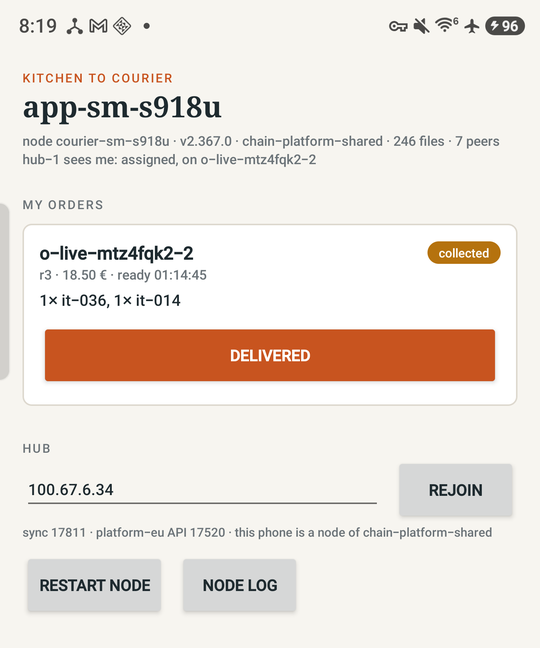
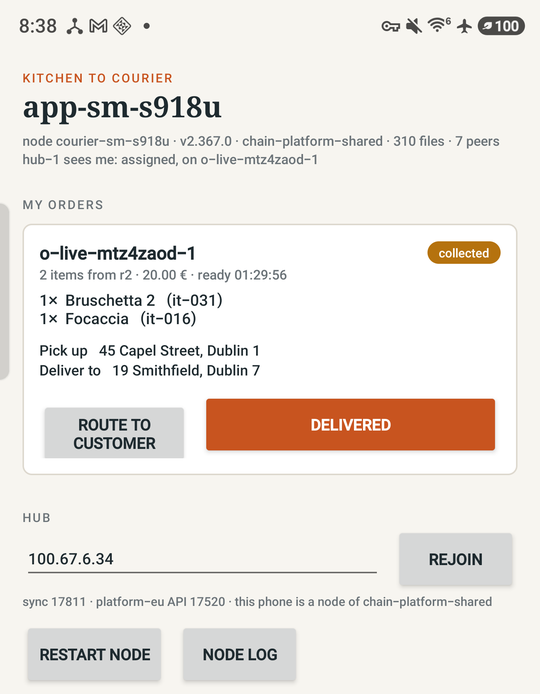
The card names the lines and carries both addresses, with a route
Items on the order are ids and prices; the names come from menu_published,
the chain's signed menu in the shared library, which the phone now
replicates on join and reads locally (through hub-1 until the members have
landed). Identical lines fold into one with the quantity summed, and a
count and total lead the card. The order's pickup and delivery addresses
(MVP PR #2) are shown, and Route hands the maps app a bicycle directions
link: courier to pickup until collected, pickup to customer after.

Claude-Session: https://claude.ai/code/session_01JTEEzAK5s1sBBuDzpcijis

diff --git a/app/src/main/java/ie/unidatum/courier/OrdersAdapter.kt b/app/src/main/java/ie/unidatum/courier/OrdersAdapter.kt
@@ -1,5 +1,7 @@
 package ie.unidatum.courier
 
+import android.content.Intent
+import android.net.Uri
 import android.view.LayoutInflater
 import android.view.View
 import android.view.ViewGroup
@@ -8,20 +10,60 @@ import android.widget.TextView
 import androidx.recyclerview.widget.RecyclerView
 import org.json.JSONObject
 
-class OrdersAdapter(val onCollected: (String) -> Unit, val onDelivered: (String) -> Unit) : RecyclerView.Adapter<OrdersAdapter.VH>() {
+class OrdersAdapter(val onCollected: (String) -> Unit, val onDelivered: (String) -> Unit, val myLocation: () -> JSONObject?) : RecyclerView.Adapter<OrdersAdapter.VH>() {
     private var items: List<JSONObject> = emptyList()
-    fun submit(o: List<JSONObject>) { items = o.sortedBy { it.optString("ready_at") }; notifyDataSetChanged() }
+    private var menu: Map<String, MenuItem> = emptyMap()
+    fun submit(o: List<JSONObject>, m: Map<String, MenuItem>) { items = o.sortedBy { it.optString("ready_at") }; menu = m; notifyDataSetChanged() }
+
+    /** The order's lines folded by item (the same item twice is one line, qty 2), named from the published menu when the phone holds it. */
+    data class Line(val itemId: String, val name: String, val qty: Int, val cents: Long)
+    fun lines(o: JSONObject): List<Line> {
+        val arr = o.optJSONArray("items") ?: return emptyList()
+        val rid = o.optString("restaurant_id")
+        val byItem = LinkedHashMap<String, Line>()
+        for (k in 0 until arr.length()) {
+            val it = arr.optJSONObject(k) ?: continue
+            val id = it.optString("item_id"); val qty = it.optInt("qty", 1)
+            val name = menu["$rid:$id"]?.name ?: it.optString("name", id)
+            val prev = byItem[id]
+            byItem[id] = Line(id, name, (prev?.qty ?: 0) + qty, (prev?.cents ?: 0) + qty * it.optLong("price_cents"))
+        }
+        return byItem.values.toList()
+    }
     class VH(v: View) : RecyclerView.ViewHolder(v)
+
+    /** A universal maps-directions link: any maps app takes it, the browser otherwise. Bicycle mode, a courier's. */
+    private fun directionsUrl(from: JSONObject?, to: JSONObject): String {
+        fun pt(p: JSONObject): String? = p.optJSONObject("location")?.optJSONArray("coordinates")?.let { "${it.optDouble(1)},${it.optDouble(0)}" }
+        val dest = pt(to) ?: Uri.encode(to.optString("address"))
+        val origin = from?.let { pt(it) ?: Uri.encode(it.optString("address")) }
+        return "https://www.google.com/maps/dir/?api=1&destination=$dest&travelmode=bicycling" + (if (origin != null) "&origin=$origin" else "")
+    }
     override fun onCreateViewHolder(p: ViewGroup, t: Int) = VH(LayoutInflater.from(p.context).inflate(R.layout.item_order, p, false))
     override fun getItemCount() = items.size
     override fun onBindViewHolder(h: VH, i: Int) {
         val o = items[i]; val id = o.optString("_id"); val status = o.optString("status")
-        val items = o.optJSONArray("items")
-        val lines = if (items == null) "" else (0 until items.length()).joinToString(", ") { k ->
-            val it = items.optJSONObject(k); if (it == null) items.optString(k) else "${it.optInt("qty", 1)}× ${it.optString("item_id", it.optString("name"))}" }
+        val ls = lines(o); val n = ls.sumOf { it.qty }
         h.itemView.findViewById<TextView>(R.id.orderId).text = id
-        h.itemView.findViewById<TextView>(R.id.orderMeta).text = "${o.optString("restaurant_id")} · ${"%.2f".format(o.optLong("total_cents") / 100.0)} € · ready ${o.optString("ready_at").takeLast(13).dropLast(5)}"
-        h.itemView.findViewById<TextView>(R.id.orderItems).text = lines
+        h.itemView.findViewById<TextView>(R.id.orderMeta).text =
+            "$n item${if (n == 1) "" else "s"} from ${o.optString("restaurant_id")} · ${"%.2f".format(o.optLong("total_cents") / 100.0)} € · ready ${o.optString("ready_at").takeLast(13).dropLast(5)}"
+        h.itemView.findViewById<TextView>(R.id.orderItems).text = ls.joinToString("\n") { "${it.qty}×  ${it.name}" + (if (it.name == it.itemId) "" else "   (${it.itemId})") }
+        // Where to: the pickup until it is collected, the delivery after. Both come on the order document
+        // (the platform writes the restaurant's address, the customer the delivery one).
+        val pickup = o.optJSONObject("pickup"); val delivery = o.optJSONObject("delivery")
+        h.itemView.findViewById<TextView>(R.id.pickup).text = "Pick up   " + (pickup?.optString("address")?.takeIf { it.isNotEmpty() } ?: o.optString("restaurant_id"))
+        h.itemView.findViewById<TextView>(R.id.deliverTo).text = "Deliver to   " + (delivery?.optString("address")?.takeIf { it.isNotEmpty() } ?: "no address on the order")
+        val route = h.itemView.findViewById<Button>(R.id.route)
+        val to = if (status == "ready") pickup else delivery
+        // To the pickup from where the courier is (the position the app registered; a real app would use GPS), then to the customer from the pickup.
+        val from = if (status == "ready") myLocation() else pickup
+        route.text = if (status == "ready") "Route to pickup" else "Route to customer"
+        route.isEnabled = to != null
+        route.setOnClickListener {
+            val ctx = h.itemView.context
+            val i = Intent(Intent.ACTION_VIEW, Uri.parse(directionsUrl(from, to!!)))
+            try { ctx.startActivity(i) } catch (e: Exception) { android.widget.Toast.makeText(ctx, "no maps app: ${e.message}", android.widget.Toast.LENGTH_SHORT).show() }
+        }
         val pill = h.itemView.findViewById<TextView>(R.id.status); pill.text = status
         pill.setBackgroundResource(if (status == "ready") R.drawable.pill_ready else R.drawable.pill_collected)
         val b = h.itemView.findViewById<Button>(R.id.action)

diff --git a/app/src/main/java/ie/unidatum/courier/Courier.kt b/app/src/main/java/ie/unidatum/courier/Courier.kt
@@ -15,6 +15,8 @@ import java.time.Instant
  *   step 5    /api/doc/update $set collected / delivered                  locally
  *             couriers $set state available on platform-eu               at the hub
  */
+data class MenuItem(val name: String, val priceCents: Long)
+
 class Courier(ctx: Context) {
     val prefs = ctx.getSharedPreferences("courier", Context.MODE_PRIVATE)
     var hubHost: String
@@ -34,12 +36,18 @@ class Courier(ctx: Context) {
 
     fun now(): String = Instant.now().toString()
 
+    /** Where the courier is: fixed at hub-1's pickup point in this demo (no GPS); what the couriers document carries. */
+    val location: JSONObject get() = JSONObject().put("type", "Point").put("coordinates", JSONArray().put(-6.32).put(53.35))
+
     /** Peer with the hub's shared node and follow the orders collection. Idempotent. */
     fun join(): String {
         val s = local.sync(hubHost, hubSyncPort)
         val r = local.replicate("platform_orders")
+        // The chain publishes its menu into the shared library (signed, the menu-publish pipeline);
+        // holding it locally is what lets the card name the items at a pickup with no network.
+        val m = local.replicate("menu_published")
         joined = true
-        return "sync: ${s.optString("msg", s.toString())}; replicate: ${r.optString("msg")}"
+        return "sync: ${s.optString("msg", s.toString())}; replicate: ${r.optString("msg")}; menu: ${m.optString("msg")}"
     }
 
     /** One couriers document on platform-eu, near hub-1's pickup so dispatch's $near finds it. */
@@ -48,7 +56,7 @@ class Courier(ctx: Context) {
         val mine = eu.find("couriers", JSONObject().put("_id", id), 1).firstOrNull()
         if (mine == null) {
             eu.put("couriers", JSONObject().put("_id", id).put("courier_id", id).put("hub_id", hubId).put("state", "available")
-                .put("location", JSONObject().put("type", "Point").put("coordinates", JSONArray().put(-6.32).put(53.35)))
+                .put("location", location)
                 .put("current_order", JSONObject.NULL).put("updated_at", now()))
             registered = true
             return "registered $id on platform-eu"
@@ -73,6 +81,23 @@ class Courier(ctx: Context) {
         local.ensureLocal("platform_orders.")
         local.update("platform_orders", JSONObject().put("_id", orderId).put("status", "collected"), JSONObject().put("status", "delivered").put("delivered_at", now()))
         hubEu.update("couriers", JSONObject().put("_id", id), JSONObject().put("state", "available").put("current_order", JSONObject.NULL).put("updated_at", now()))
+    }
+
+    /** restaurant:item -> (name, price) from the chain's published menu, read from the phone's node. Refreshed every minute; empty until the table has arrived. */
+    @Volatile private var menu: Map<String, MenuItem> = emptyMap()
+    @Volatile private var menuAt = 0L
+    fun menu(): Map<String, MenuItem> {
+        if (menu.isEmpty() || System.currentTimeMillis() - menuAt > 60_000) {
+            try {
+                val (local_, rows) = local.sqlFull("SELECT restaurant_id, item_id, name, price_cents FROM menu_published")
+                menu = rows.associate { "${it.optString("restaurant_id")}:${it.optString("item_id")}" to MenuItem(it.optString("name"), it.optLong("price_cents")) }
+                menuAt = System.currentTimeMillis()
+                // Answered through the hub: the members are not here yet. Ask again for them; it is idempotent
+                // and the names will keep coming from the hub until they land — after which the pickup needs no network.
+                if (!local_) NodeService.logLine("menu: from the hub; replicate: " + local.replicate("menu_published").optString("msg"))
+            } catch (e: Exception) { NodeService.logLine("menu: ${e.message}") }
+        }
+        return menu
     }
 
     /** What the hub sees of me — for the node tab; from platform-eu. */

diff --git a/app/src/main/java/ie/unidatum/courier/MainActivity.kt b/app/src/main/java/ie/unidatum/courier/MainActivity.kt
@@ -32,7 +32,8 @@ class MainActivity : AppCompatActivity() {
         findViewById<TextView>(R.id.courierId).text = courier.id
         findViewById<EditText>(R.id.hubHost).setText(courier.hubHost)
         adapter = OrdersAdapter(onCollected = { act("collected ${it}") { courier.collected(it) } },
-                                onDelivered = { act("delivered ${it}") { courier.delivered(it) } })
+                                onDelivered = { act("delivered ${it}") { courier.delivered(it) } },
+                                myLocation = { JSONObject().put("location", courier.location) })
         findViewById<RecyclerView>(R.id.orders).apply { layoutManager = LinearLayoutManager(this@MainActivity); adapter = this@MainActivity.adapter }
         findViewById<Button>(R.id.saveHub).setOnClickListener {
             courier.hubHost = findViewById<EditText>(R.id.hubHost).text.toString().trim()
@@ -62,14 +63,16 @@ class MainActivity : AppCompatActivity() {
     private fun poll() {
         val status = StringBuilder()
         var orders: List<JSONObject> = emptyList()
+        var menu: Map<String, MenuItem> = emptyMap()
         var hubSeen = ""
         try {
-            if (!NodeService.running()) { status.append("node: starting"); render(status.toString(), orders, hubSeen); return }
+            if (!NodeService.running()) { status.append("node: starting"); render(status.toString(), orders, menu, hubSeen); return }
             val st = courier.local.status()
             status.append("node ${st.optString("nodeName")} · ${st.optString("engineVersion")} · ${st.optString("library")} · ${st.optInt("files")} files · ${courier.local.peers().length()} peers")
             if (!courier.joined) { NodeService.logLine(courier.join()); NodeService.logLine("joined ${courier.hubHost}") }
             if (!courier.registered) NodeService.logLine(courier.register())
             orders = courier.myOrders()
+            if (orders.isNotEmpty()) menu = courier.menu()
             hubSeen = courier.hubView()
             courier.lastError = null
         } catch (e: Exception) {
@@ -77,14 +80,14 @@ class MainActivity : AppCompatActivity() {
             status.append("\n${e.message}")
             NodeService.logLine("tick: ${e.message}")
         }
-        render(status.toString(), orders, hubSeen)
+        render(status.toString(), orders, menu, hubSeen)
     }
 
-    private fun render(status: String, orders: List<JSONObject>, hubSeen: String) = ui.post {
+    private fun render(status: String, orders: List<JSONObject>, menu: Map<String, MenuItem>, hubSeen: String) = ui.post {
         findViewById<TextView>(R.id.nodeStatus).text = status
         findViewById<TextView>(R.id.hubSeen).text = if (hubSeen.isEmpty()) "" else "hub-1 sees me: $hubSeen"
         findViewById<TextView>(R.id.empty).visibility = if (orders.isEmpty()) View.VISIBLE else View.GONE
-        adapter.submit(orders)
+        adapter.submit(orders, menu)
         findViewById<TextView>(R.id.log).text = synchronized(NodeService.log) { NodeService.log.takeLast(60).joinToString("\n") }
     }
 

diff --git a/app/src/main/java/ie/unidatum/courier/Api.kt b/app/src/main/java/ie/unidatum/courier/Api.kt
@@ -35,6 +35,14 @@ class Api(val base: String) {
         val docs = call("POST", "/api/doc/find", b).optJSONArray("documents") ?: JSONArray()
         return (0 until docs.length()).map { docs.getJSONObject(it) }
     }
+    /** /api/sql over the node's tables; a table the node does not hold yet is answered through its peers when they are reachable. */
+    fun sql(query: String): List<JSONObject> = sqlFull(query).second
+    /** The rows and whether the node answered from its own members ("answered by scatter" in the note means it asked peers). */
+    fun sqlFull(query: String): Pair<Boolean, List<JSONObject>> {
+        val j = call("POST", "/api/sql", JSONObject().put("query", query), 30000)
+        val rows = j.optJSONArray("rows") ?: JSONArray()
+        return Pair(!j.optString("note").contains("scatter"), (0 until rows.length()).map { rows.getJSONObject(it) })
+    }
     fun count(collection: String, filter: JSONObject): Int = call("POST", "/api/doc/count", JSONObject().put("collection", collection).put("filter", filter)).optInt("count")
     fun update(collection: String, filter: JSONObject, set: JSONObject): JSONObject =
         call("POST", "/api/doc/update", JSONObject().put("collection", collection).put("filter", filter).put("update", JSONObject().put("\$set", set)))

diff --git a/README.md b/README.md
@@ -40,35 +40,57 @@ network as the machine running compose.
 
 The node is up inside the app: `courier-sm-s918u`, engine v2.367.0, a member
 of `chain-platform-shared`, holding 246 files (the members of
-`platform_orders` it has replicated) and peered with 7 nodes (hub-1 and,
+`platform_orders` and `menu_published` it has replicated) and peered with 7 nodes (hub-1 and,
 through it, the rest of the fleet). "hub-1 sees me: available" is read from
 the platform's `couriers` collection on hub-1's other library. Nothing has
 been dispatched.
 
 ### 2. Dispatched
 
-<img src="docs/screenshots/2-ready.png" width="360" alt="An order dispatched to the phone, status ready, a Collected button">
+<img src="docs/screenshots/2-ready.png" width="360" alt="An order dispatched to the phone: named items, pickup and delivery addresses, Route to pickup and Collected buttons">
 
-A customer placed an order (`sims/customer.mjs`), restaurant r1's kitchen
+A customer placed an order (`sims/customer.mjs`), restaurant r2's kitchen
 accepted it and marked it ready, and hub-1's dispatch assigned it to the
 nearest available courier: the phone. The hub wrote `courier_id` on the
 order and `state: assigned` on the courier document. The phone's node pulled
 the new member on its 5-second sync, the app's 3-second poll of its own node
-found an order with its id, and the card appeared. Dispatch to on-phone here
-took about a second; the hub's log line for it was
-`hub-1: o-live-mtz4n4iz-0 -> app-sm-s918u`.
+found an order with its id, and the card appeared. The hub's log line for it
+was `hub-1: o-live-mtz4zaod-1 -> app-sm-s918u`.
+
+The card is what a courier checks the bag against at the counter: the line
+count and total first, then each line by name. The order document itself
+carries only item ids and prices; the names come from `menu_published`,
+the chain's signed menu that its menu-publish pipeline lands in the shared
+library. The phone replicates that table too, so the lookup is local. A
+line that appears twice on the order is folded into one line with the
+quantity summed. Below the lines are the two addresses the order carries:
+`pickup` (the restaurant's, written by the platform when it created the
+order) and `delivery` (the customer's).
 
 ### 3. Collected
 
-<img src="docs/screenshots/3-collected.png" width="360" alt="The order after Collected: status collected, a Delivered button">
+<img src="docs/screenshots/3-collected.png" width="360" alt="The order after Collected: status collected, Route to customer and Delivered buttons">
 
 The courier tapped Collected. The app ran one update on the node in the
 phone: `{_id, status: ready} $set {status: collected, collected_at}`. The
-status pill changed from the phone's own read. hub-1 saw the change 1.4 s
-later (measured by polling hub-1's API from the host until the document
+status pill changed from the phone's own read, and the route button turned
+to the customer. hub-1 saw the change 1.4 to 2.0 s later across the runs
+(measured by polling hub-1's API from the host until the document
 changed). Delivered is the same shape and also sets the courier document
-back to `available` on the platform; it reached hub-1 in 1.5 to 2.0 s
-across the runs.
+back to `available` on the platform; it reached hub-1 in 1.5 to 2.0 s.
+
+### The route
+
+<img src="docs/screenshots/5-route-pickup.jpg" width="300" alt="Google Maps: bicycle route from the courier's position to the pickup, 13 min, 4.0 km"> <img src="docs/screenshots/6-route-customer.jpg" width="300" alt="Google Maps: bicycle route from the pickup to the customer, 3 min, 750 m">
+
+Route hands the phone's maps app a directions link built from the points
+on the order document, bicycle mode. Before the order is collected the
+route runs from the courier's position to the pickup (left: 13 min, 4.0 km
+to Capel Street); after, from the pickup to the customer (right: 3 min,
+750 m to Smithfield). The app draws no map of its own and needs no maps
+API key; any maps app that takes a directions URL will do, and the browser
+otherwise. In this demo the courier's position is the fixed point the app
+registered at hub-1's pickup area, since the phone was not in Dublin.
 
 ### 4. What the node saw
 
@@ -132,9 +154,10 @@ The app talks to it at `http://127.0.0.1:7480` with the same calls the MVP's
 
 | step | call | where |
 |---|---|---|
-| join | `POST /api/sync {host, port: 17811}` then `POST /api/table/replicate {table: platform_orders}` | the phone's node |
+| join | `POST /api/sync {host, port: 17811}` then `POST /api/table/replicate` for `platform_orders` and `menu_published` | the phone's node |
 | register | `POST /api/doc/put couriers {_id: app-<model>, hub_id: hub-1, state: available, location near hub-1's pickup}` | platform-eu, hub-1's API (17520) |
 | 4 | `POST /api/doc/find platform_orders {courier_id: mine, status: {$in: [ready, collected]}}` every 3 s | the phone's node |
+| 4 | `POST /api/sql SELECT restaurant_id, item_id, name, price_cents FROM menu_published`, cached a minute, to name the lines | the phone's node |
 | 5 | `POST /api/doc/update {_id, status: ready} $set {status: collected, collected_at}` | the phone's node |
 | 5 | `$set {status: delivered, delivered_at}`, then `couriers $set {state: available, current_order: null}` | the phone's node; platform-eu |
 
@@ -163,7 +186,8 @@ same network can query the phone's copy), 47800 sync, 47801 DHT.
 ## Limits
 
 - arm64 only, Android 10+; the engine is a static Go binary, DuckDB is the musl build.
-- The courier's location is fixed at hub-1's pickup; a real app would write GPS fixes to its `couriers` document.
+- The courier's location is fixed at hub-1's pickup; a real app would write GPS fixes to its `couriers` document and route from them.
+- Until the menu table's members have landed, the names come through hub-1 (the node answers the query by asking its peers), and a pickup with no network would show item ids. Landing them needs unidatum after v2.367.0: the phone sees head-office and hub-1 at one address on two ports, and older engines kept only the first, unpublished one (fixed in peer-to-peer-db PR #1046).
 - One hub (`hub-1`) and the MVP's port numbers are constants in `Courier.kt`; only the host is editable in the app.
 - The phone reaches the rest of the fleet only through hub-1, since only hub-1's shared port is published by compose.
 - The debug build only. A release build needs a signing key; no ProGuard rules are written.
